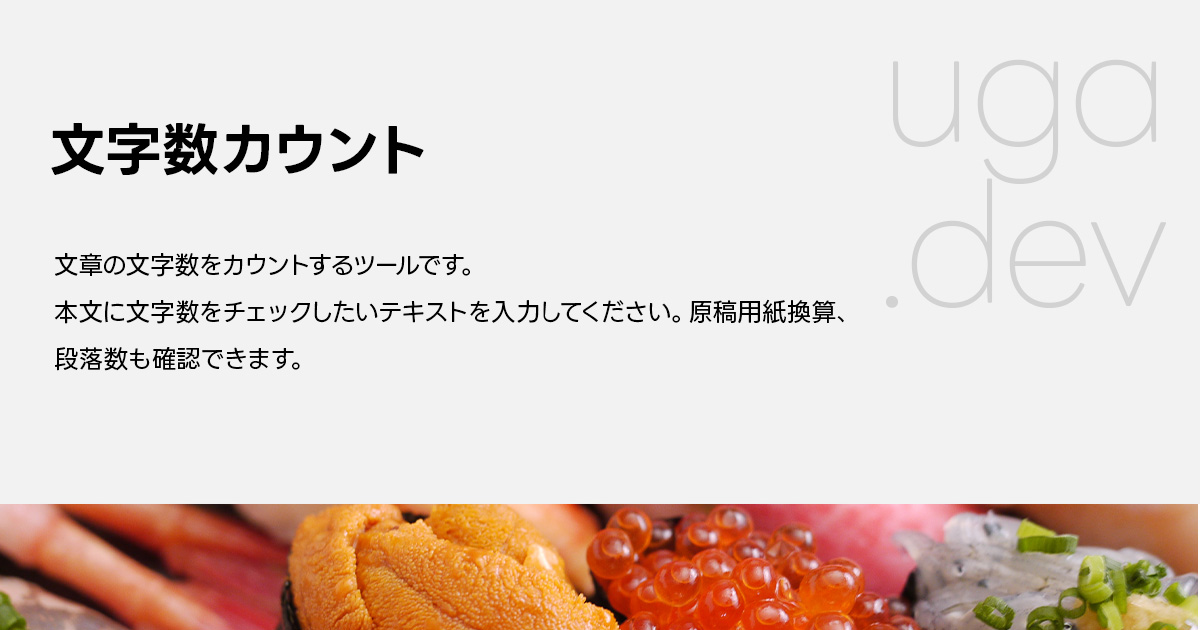
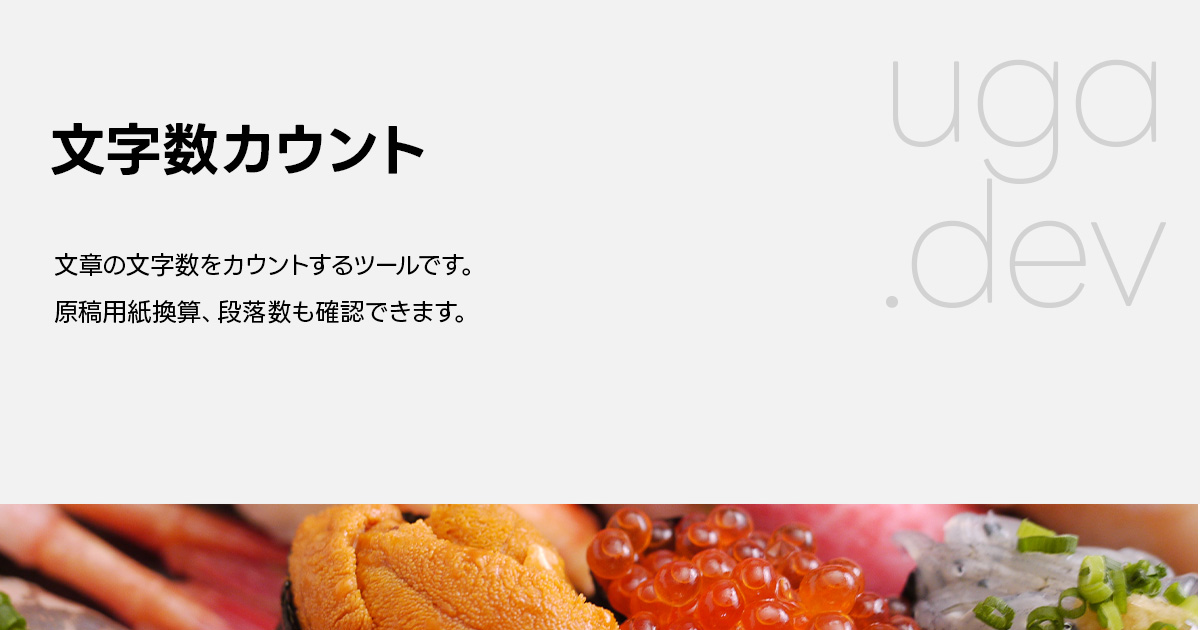
Update tools

Changed region(s): [[0.0308, 0.4524, 0.7092, 0.5127], [0.0308, 0.5429, 0.2467, 0.6032]]

diff --git a/src/app/(ja)/(common)/tools/page.tsx b/src/app/(ja)/(common)/tools/page.tsx
@@ -15,90 +15,42 @@ export default function Page() {
 
       <SimpleDescriptionList
         list={[
-          {
-            key: `Slack reminder command generator`,
-            title: (
-              <>
-                <Link href="/tools/slack-reminder-command-generator">Slack reminder command generator</Link>
-              </>
-            ),
-            description:
-              'Slackのリマインダーコマンドを生成するためのツールです。リマインダーの内容・時間・繰り返しの設定を行うためのコマンドを生成できます。',
-          },
-          {
-            key: `WebページからURLを抽出できるツール`,
-            title: (
-              <>
-                <Link href="/tools/get-url-from-dom">WebページからURLを抽出できるツール</Link>
-              </>
-            ),
-            description: getMetadata('/tools/get-url-from-dom').description,
-          },
-          {
-            key: `代替テキスト２択チャート`,
-            title: (
-              <>
-                <Link href="/tools/an-alt-decision-tree">代替テキスト２択チャート</Link>
-              </>
-            ),
-            description:
-              'An alt Decision Treeを参考に作られた、画像の代替テキストと呼ばれるalt属性値を決める手助けをする２択チャートです。',
-          },
-          {
-            key: `文字数カウント`,
-            title: (
-              <>
-                <Link href="/tools/character-count">文字数カウント</Link>
-              </>
-            ),
-            description: '文章の文字数をカウントするツールです。原稿用紙換算、段落数も確認できます。',
-          },
-        ]}
+          '/tools/slack-reminder-command-generator',
+          '/tools/get-url-from-dom',
+          '/tools/an-alt-decision-tree',
+          '/tools/character-count',
+        ]
+          .map((pathname) => {
+            const data = getMetadata(pathname);
+
+            return {
+              key: data.pageTitle,
+              title: <Link href={pathname}>{data.pageTitle}</Link>,
+              description: data.description.replace(/\n/g, ''),
+            };
+          })
+          .sort((a, b) => a.key.localeCompare(b.key))}
       />
 
       <h2 className="mb-4 mt-14 text-xl font-bold sm:mb-6 sm:mt-20 sm:text-2xl">Playground</h2>
 
       <SimpleDescriptionList
         list={[
-          {
-            key: `Accessible Name and Description Computation Playground`,
-            title: (
-              <>
-                <Link href="/tools/accessible-name-and-description-computation">
-                  Accessible Name and Description Computation Playground
-                </Link>
-              </>
-            ),
-            description: 'アクセシブルな名前および説明がどう計算されるかをテストするためのページです。',
-          },
-          {
-            key: `CSS Units Playground`,
-            title: (
-              <>
-                <Link href="/tools/css-units">CSS Units Playground</Link>
-              </>
-            ),
-            description: 'それぞれのCSSの単位が、実際にはどのようなCSSピクセルになるのかを確認できるページです。',
-          },
-          {
-            key: `DOM Event Playground`,
-            title: (
-              <>
-                <Link href="/tools/dom-events-watcher/">DOM Event Playground</Link>
-              </>
-            ),
-            description: 'JavaScriptがどのようなイベントを受け取るのかを確認できます。',
-          },
-          {
-            key: `TouchEvent.touches Playground`,
-            title: (
-              <>
-                <Link href="/tools/touch-event-touches">TouchEvent.touches Playground</Link>
-              </>
-            ),
-            description: 'デバイスのタッチ操作が利用可能か、何本の指でタッチできるのかをテストできます。',
-          },
-        ]}
+          '/tools/accessible-name-and-description-computation',
+          '/tools/css-units',
+          '/tools/dom-events-watcher',
+          '/tools/touch-event-touches',
+        ]
+          .map((pathname) => {
+            const data = getMetadata(pathname);
+
+            return {
+              key: data.pageTitle,
+              title: <Link href={pathname}>{data.pageTitle}</Link>,
+              description: data.description.replace(/\n/g, ''),
+            };
+          })
+          .sort((a, b) => a.key.localeCompare(b.key))}
       />
     </>
   );

diff --git a/src/constants/seo.ts b/src/constants/seo.ts
@@ -337,8 +337,7 @@ export const SEO: Record<
   },
   '/tools/character-count': {
     title: '文字数カウント',
-    description:
-      '文章の文字数をカウントするツールです。\n本文に文字数をチェックしたいテキストを入力してください。原稿用紙換算、段落数も確認できます。',
+    description: '文章の文字数をカウントするツールです。原稿用紙換算、段落数も確認できます。',
   },
   '/tools/css-units': {
     title: 'CSS Units Playground',

diff --git a/src/app/(ja)/(common)/tools/character-count/page.tsx b/src/app/(ja)/(common)/tools/character-count/page.tsx
@@ -11,7 +11,9 @@ export default function Page() {
 
   return (
     <>
-      <PageTitle title={metadata.pageTitle} description={metadata.description} shouldShowPrivacyPolicyMessage />
+      <PageTitle title={metadata.pageTitle} description={metadata.description} shouldShowPrivacyPolicyMessage>
+        <p>本文に文字数をチェックしたいテキストを入力してください。</p>
+      </PageTitle>
       <CharacterCountContent id={id} />
     </>
   );
